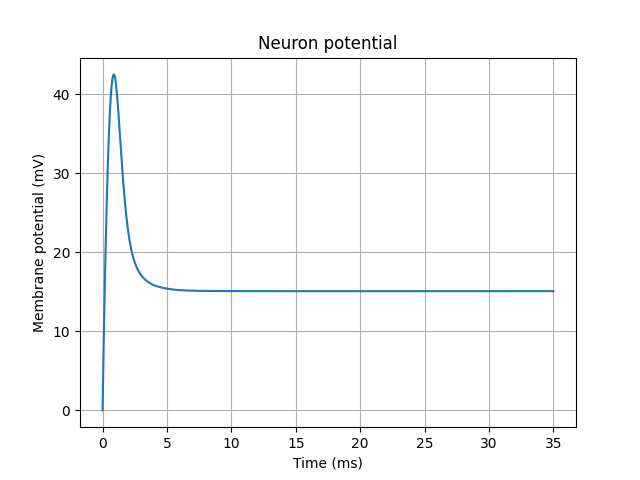
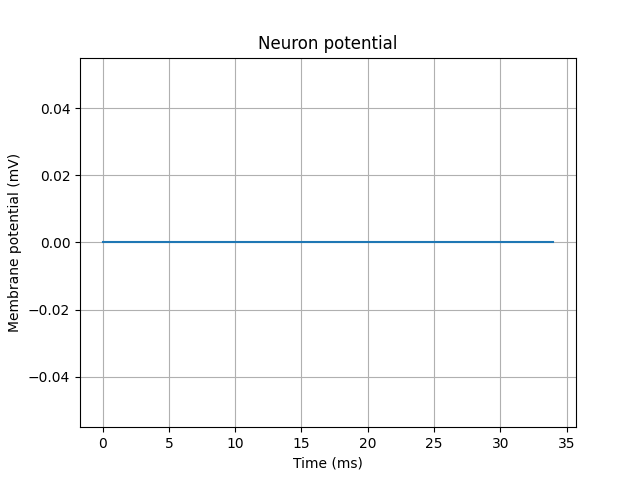
y needs to update properly

diff --git a/Full_Model.py b/Full_Model.py
@@ -7,7 +7,7 @@ from HH_model import *
 import time
 
 start_time = time.time()
-tmax = 35.
+tmax = 35
 
 class FullModel():
     def __init__(self):
@@ -24,17 +24,6 @@ class FullModel():
         self.markovian = Markov() 
         self.hh = HodgkinHuxley() 
         
-    def normalize(y):
-        # y is a array of shape (16,)
-        total=0
-        for i in range(2,15):
-            total+=y[i]
-
-        for i in range(2,15):
-            y[i]/=total
-
-        return y    
-
     def all_derivatives(self,t,y,inj,o):
         der = np.zeros(2)
 
@@ -59,18 +48,28 @@ class FullModel():
     def Main(self):
         v_init = self.v_init
         t = self.t
+        bigy = np.array([])
+        bigt = np.array([])
 
         y = np.array([v_init, self.hh.n_inf(v_init)], dtype= 'float64')
 
-        my = self.markovian.mark_intgr(v_init) # this is the last y from markov hence no resurgence, shape(13,)
-        result = solve_ivp(self.all_derivatives, t_span=(0,tmax), y0=y, t_eval=t, method='BDF', args=(self.hh.i_inj, my[11])) 
-        # print(result)
+        for i in range(0,tmax):
+            my = self.markovian.mark_intgr(v_init,i) # this is the last y from markov hence no resurgence, shape(13,)
+            result = solve_ivp(self.all_derivatives, t_span=(i,i+1), y0=y,t_eval=([i]), method='BDF', args=(self.hh.i_inj, my[11]))
+            bigy = np.concatenate((bigy,result.y[0]))   
+            bigt = np.concatenate((bigt,result.t))
 
-        vp  = result.y[0,:]   
-        n   = result.y[1,:]
+            print(np.shape(result.y[0,:]))
+            y = np.array([result.y[0,:], self.hh.n_inf(result.y[0,:])], dtype= 'float64') # Y does not update properly
+            print(np.shape(y))
+
+        print(np.shape(bigy))
+
+        # vp  = result.y[0,:]   
+        # n   = result.y[1,:]
 
         ax = plt.subplot()
-        ax.plot(t, vp)
+        ax.plot(bigt, bigy)
         ax.set_xlabel('Time (ms)')
         ax.set_ylabel('Membrane potential (mV)')
         ax.set_title('Neuron potential')

diff --git a/Markov_Model.py b/Markov_Model.py
@@ -34,9 +34,6 @@ class Markov():
         self.a = ((self.u/self.d)/(self.f/self.n))**(1/8)   # m*s**(-1)
         self.hh = HodgkinHuxley() 
 
-        self.tmax = 35 
-        # self.t  = np.linspace(0, self.tmax, 100)
-
     def alpha(self,v):
         return 150.* np.exp(v/20.)
     def beta(self,v):
@@ -80,11 +77,11 @@ class Markov():
 
         return der
 
-    def mark_intgr(self,v):
+    def mark_intgr(self,v,i):
         y = np.array([self.c0,self.c1,self.c2,self.c3,self.c4,self.I0,self.I1,self.I2,self.I3,self.I4,self.I5,self.o,self.b])
 
         # For Markov model with variable v look at commit: 32c6316 
-        markov = solve_ivp(self.derivatives, t_span=(0,self.tmax), y0=y, method='BDF', args=(v, self.alpha(v), self.beta(v), self.ksi(v), self.γ,self.δ,self.ε,self.d,self.u,self.n,self.f,self.a))
+        markov = solve_ivp(self.derivatives, t_span=(i,i+1), y0=y, method='BDF', args=(v, self.alpha(v), self.beta(v), self.ksi(v), self.γ,self.δ,self.ε,self.d,self.u,self.n,self.f,self.a))
         
         # markov.y has shape (13,100) and y has shape (13,)
         # np.shape(markov.y[-1,:]) # (100,)
@@ -93,6 +90,4 @@ class Markov():
         y = markov.y[:,-1]
         y = y/np.sum(y)
 
-
-        print(np.shape(y))
         return y
